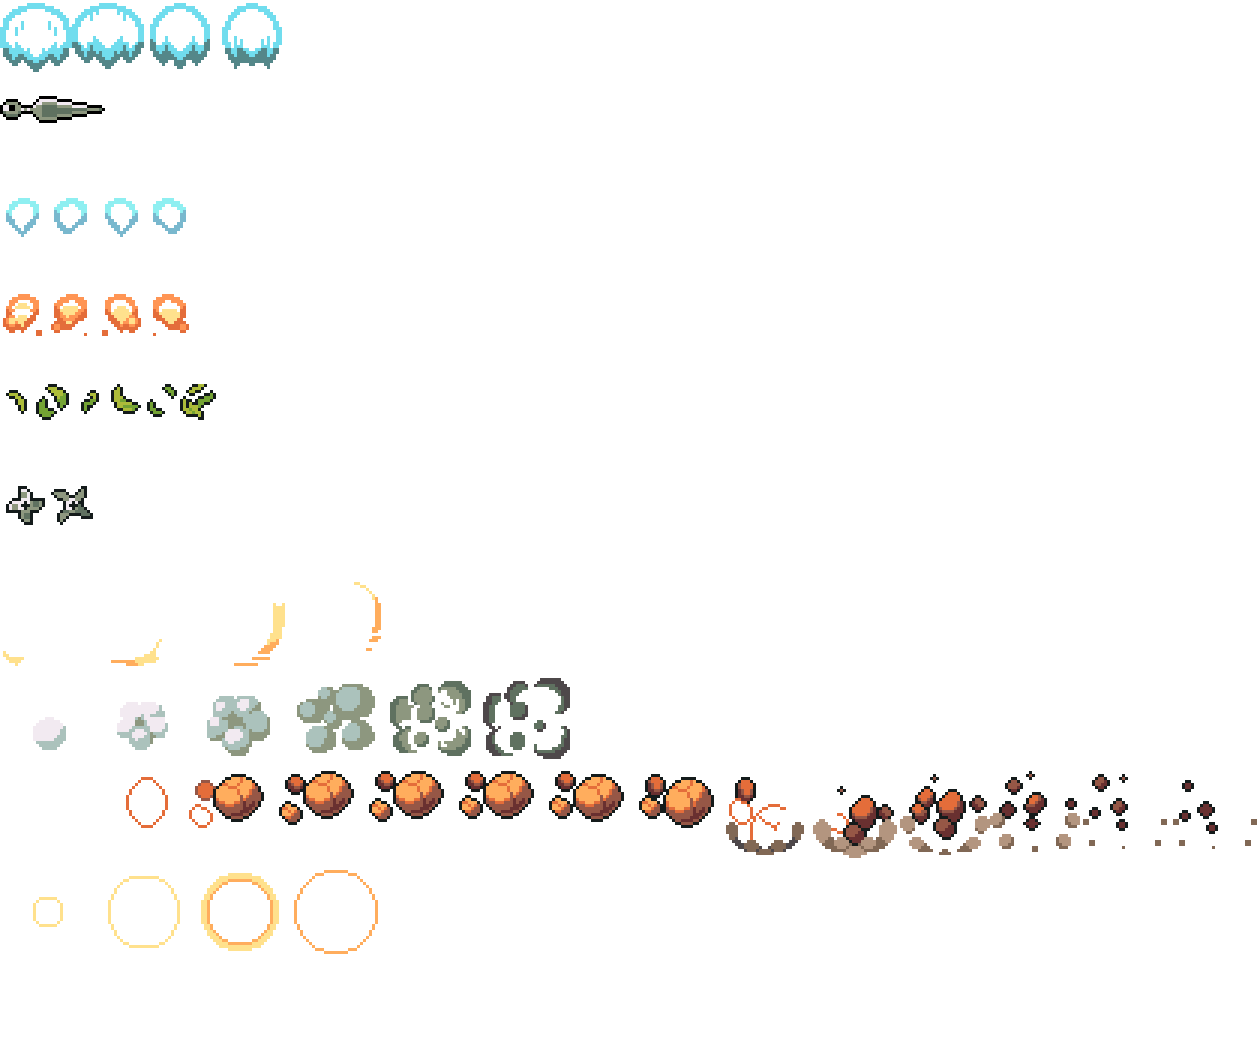
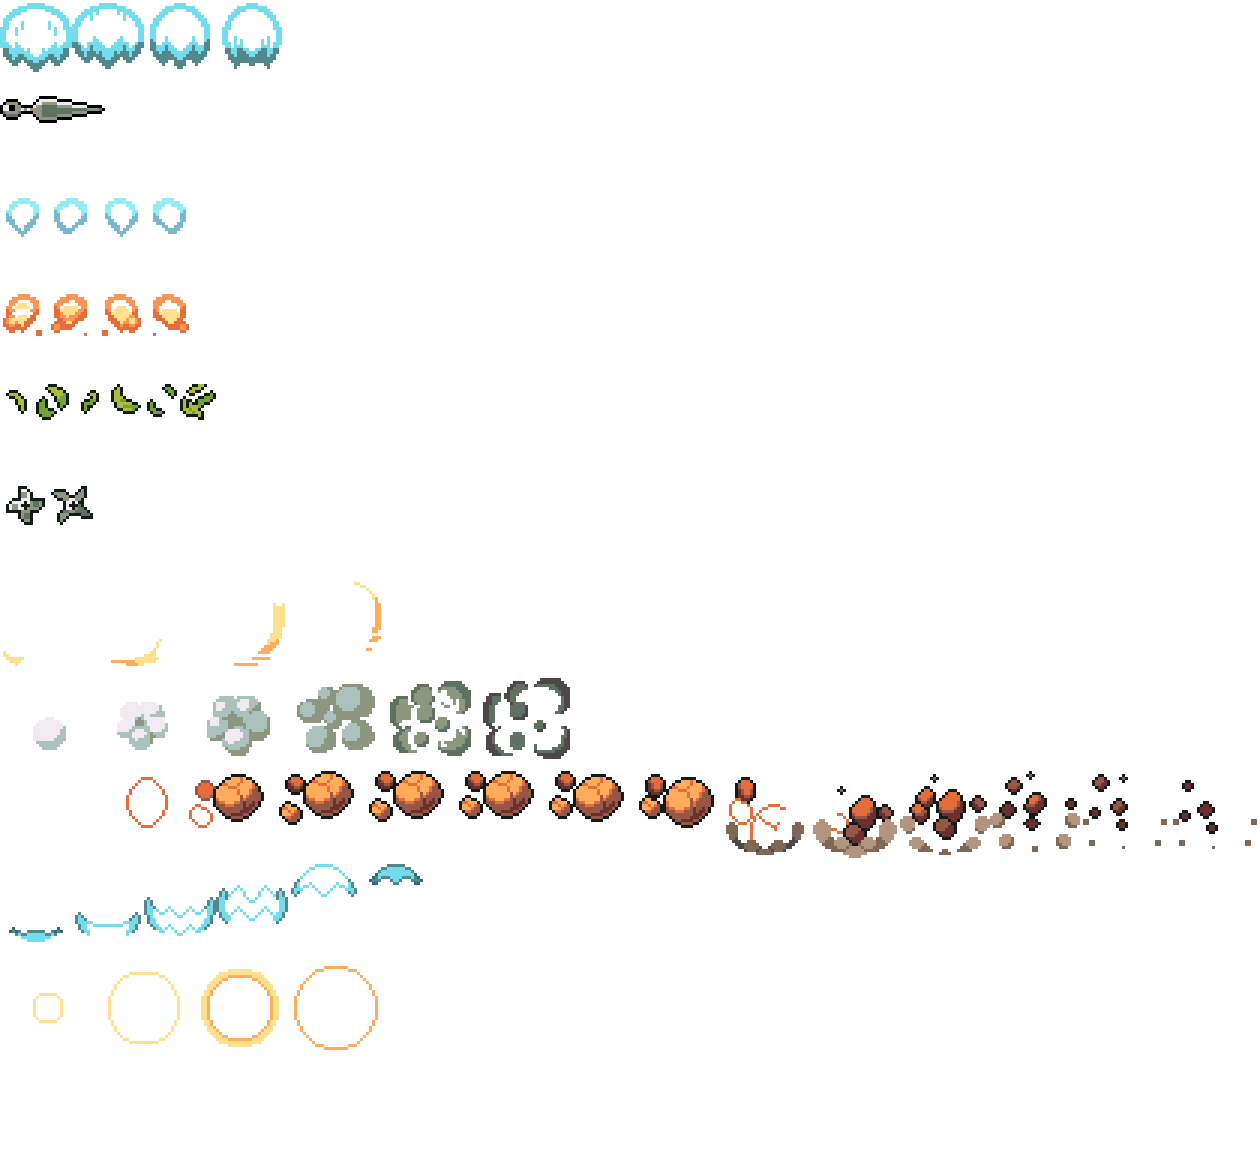
35th

diff --git a/core/src/com/mygdx/game/entity/system/CollisionSystem.java b/core/src/com/mygdx/game/entity/system/CollisionSystem.java
@@ -19,7 +19,9 @@ import com.mygdx.game.items.food.Food;
 import com.mygdx.game.items.food.FoodType;
 import com.mygdx.game.items.weapon.Weapon;
 import com.mygdx.game.items.weapon.WeaponType;
+import com.mygdx.game.map.GameObject;
 import com.mygdx.game.map.GameObjectType;
+import com.mygdx.game.map.Map;
 import com.mygdx.game.map.MapType;
 import com.mygdx.game.screens.ScreenType;
 import com.mygdx.game.view.DirectionType;
@@ -93,14 +95,7 @@ public class CollisionSystem extends IteratingSystem implements CollisionListene
         aniComponent.isDamaged = true;
 
         if (playerCmp.life <= 0) {
-            for (int i=0; i<4; i++) {
-                playerCmp.inventory[i] = null;
-            }
-            playerCmp.weaponList.clear();
-            game.getGameUI().updateBag();
-            game.getGameUI().updateNumTable();
-            game.getGameUI().destroyLifeBar();
-            player.add(((ECSEngine) getEngine()).createComponent(RemoveComponent.class));
+            reset(player, playerCmp);
         }
         game.getGameUI().updateHeart();
     }
@@ -130,6 +125,7 @@ public class CollisionSystem extends IteratingSystem implements CollisionListene
             }
         }
         else {
+            if (bossCmp.invincible) return;
             bossCmp.life -= weaponCmp.attack;
             bossCmp.isHit = true;
             aniCmp.isFinished = false;
@@ -189,14 +185,7 @@ public class CollisionSystem extends IteratingSystem implements CollisionListene
             aniCmp.isDamaged = true;
 
             if (playerCmp.life <= 0) {;
-                for (int i=0; i<4; i++) {
-                    playerCmp.inventory[i] = null;
-                }
-                playerCmp.weaponList.clear();
-                game.getGameUI().updateBag();
-                game.getGameUI().updateNumTable();
-                game.getGameUI().destroyLifeBar();
-                player.add(((ECSEngine) getEngine()).createComponent(RemoveComponent.class));
+                reset(player, playerCmp);
             }
             game.getGameUI().updateHeart();
         }
@@ -235,15 +224,16 @@ public class CollisionSystem extends IteratingSystem implements CollisionListene
                 }
             }
             else {
+                if (bossCmp.invincible) return;
                 bossCmp.life -= damageAreaCmp.damage;
                 bossCmp.isHit = true;
                 aniCmp.isFinished = false;
                 game.getGameUI().updateLifeBar(bossCmp);
                 if (bossCmp.life <= 0) {
                     game.getAudioManager().playAudio(AudioType.KILL);
-                    bossCmp.boss.setDead(true);
+                    game.getMapManager().getCurrentMap().setBossKilled(true);
                     game.getGameUI().destroyLifeBar();
-                    if(bossCmp.type == BossType.GIANTSPIRIT){
+                    if(bossCmp.type == BossType.GIANTBLUESAMURAI){
                         game.setScreen(ScreenType.END);
                     }
                     enemy.add(((ECSEngine) getEngine()).createComponent(RemoveComponent.class));
@@ -268,5 +258,22 @@ public class CollisionSystem extends IteratingSystem implements CollisionListene
         }
     }
 
+    public void reset(Entity player, PlayerComponent playerCmp) {
+        for (int i=0; i<4; i++) {
+            playerCmp.inventory[i] = null;
+        }
+        playerCmp.indWeapon = 0;
+        playerCmp.weaponList.clear();
+        game.getGameUI().updateBag();
+        game.getGameUI().updateNumTable();
+        game.getGameUI().destroyLifeBar();
+        for (Map map: game.getMapManager().getMapCache().values()) {
+            for (GameObject gameObject : map.getGameObjects()) {
+                gameObject.setIsUsed(false);
+            }
+            map.setBossKilled(false);
+        }
+        player.add(((ECSEngine) getEngine()).createComponent(RemoveComponent.class));
+    }
 
 }

diff --git a/core/src/com/mygdx/game/entity/ECSEngine.java b/core/src/com/mygdx/game/entity/ECSEngine.java
@@ -303,6 +303,17 @@ public class ECSEngine extends PooledEngine{
 		box2DComponent.body.createFixture(CoreGame.FIXTURE_DEF);
 		pShape.dispose();
 		bossEnity.add(box2DComponent);
+
+		// effect component
+		final EffectComponent effectComponent = this.createComponent(EffectComponent.class);
+		effectComponent.type = EffectType.NONE;
+		effectComponent.position = new Vector2(box2DComponent.body.getPosition().x, box2DComponent.body.getPosition().y);
+		effectComponent.direction = DOWN;
+		effectComponent.path = EffectType.SHIELD.getAtlasPath();
+		effectComponent.width = boss.getWidth() * UNIT_SCALE;
+		effectComponent.height = boss.getWidth() * UNIT_SCALE;
+		effectComponent.owner = CoreGame.BIT_BOSS;
+		bossEnity.add(effectComponent);
 		this.addEntity(bossEnity);
 	}
 
@@ -393,12 +404,29 @@ public class ECSEngine extends PooledEngine{
 		final float angleRad = -weapon.getDirection().getCode() * MathUtils.degreesToRadians * 90;
 		final Box2DComponent box2DComponent = this.createComponent(Box2DComponent.class);
 		CoreGame.BODY_DEF.type = BodyDef.BodyType.DynamicBody;
-		CoreGame.BODY_DEF.position.set(weapon.getPosition().x + weapon.posDirection[weapon.direction.getCode()].x , weapon.getPosition().y + weapon.posDirection[weapon.direction.getCode()].y);
+		float height = (weapon.height - 12*UNIT_SCALE)/2;
+		switch (weapon.direction) {
+			case LEFT:
+				CoreGame.BODY_DEF.position.set(weapon.getPosition().x + weapon.posDirection[weapon.direction.getCode()].x - height, weapon.getPosition().y + weapon.posDirection[weapon.direction.getCode()].y);
+				break;
+			case RIGHT:
+				CoreGame.BODY_DEF.position.set(weapon.getPosition().x + weapon.posDirection[weapon.direction.getCode()].x + height, weapon.getPosition().y + weapon.posDirection[weapon.direction.getCode()].y);
+				break;
+			case UP:
+				CoreGame.BODY_DEF.position.set(weapon.getPosition().x + weapon.posDirection[weapon.direction.getCode()].x, weapon.getPosition().y + weapon.posDirection[weapon.direction.getCode()].y + height);
+				break;
+			case DOWN:
+				CoreGame.BODY_DEF.position.set(weapon.getPosition().x + weapon.posDirection[weapon.direction.getCode()].x + height, weapon.getPosition().y + weapon.posDirection[weapon.direction.getCode()].y - height);
+				break;
+
+		}
+
 		box2DComponent.body = world.createBody(CoreGame.BODY_DEF);
 		box2DComponent.body.setUserData(weaponEntity);
 		box2DComponent.width = weapon.getWidth();
 		box2DComponent.height = weapon.getHeight();
-		Vector2 position = new Vector2(weapon.getPosition().x + weapon.effDirection[weapon.direction.getCode()].x , weapon.getPosition().y + weapon.effDirection[weapon.direction.getCode()].y);
+
+		Vector2 position = new Vector2(weapon.getPosition().x + weapon.effDirection[weapon.direction.getCode()].x, weapon.getPosition().y + weapon.effDirection[weapon.direction.getCode()].y);
 		weapon.effect.setPosition(position);
 
 		// save position before rotation - Tiled is rotated around the bottom left corner instead of the center of a Tile

diff --git a/core/src/com/mygdx/game/entity/system/EnemyAttackSystem.java b/core/src/com/mygdx/game/entity/system/EnemyAttackSystem.java
@@ -10,9 +10,11 @@ import com.mygdx.game.CoreGame;
 import com.mygdx.game.character.enemy.EnemySkillType;
 import com.mygdx.game.character.enemy.system.AttackSystem;
 import com.mygdx.game.character.enemy.system.ProjectileSystem;
+import com.mygdx.game.character.enemy.system.ProtectSystem;
 import com.mygdx.game.effect.DamageArea;
 import com.mygdx.game.effect.EffectType;
 import com.mygdx.game.entity.ECSEngine;
+import com.mygdx.game.entity.component.BossComponent;
 import com.mygdx.game.entity.component.Box2DComponent;
 import com.mygdx.game.entity.component.EnemyComponent;
 import com.mygdx.game.entity.component.PlayerComponent;
@@ -44,6 +46,10 @@ public class EnemyAttackSystem extends IteratingSystem {
                 case ATTACK:
                     AttackSystem.attackSystem(game, enemyCom, b2dComponent);
                     break;
+                case PROTECT:
+                    Entity bossEntity = getBossEntity();
+                    ProtectSystem.protect(game, enemyCom, bossEntity, v);
+                    break;
             }
         }
 
@@ -53,6 +59,14 @@ public class EnemyAttackSystem extends IteratingSystem {
 
     public Entity getPlayerEntity() {
         ImmutableArray<Entity> entities = game.getEcsEngine().getEntitiesFor(Family.all(PlayerComponent.class).get());
+        if (entities.size() > 0) {
+            return entities.first();
+        }
+        return null;
+    }
+
+    public Entity getBossEntity() {
+        ImmutableArray<Entity> entities = game.getEcsEngine().getEntitiesFor(Family.all(BossComponent.class).get());
         if (entities.size() > 0) {
             return entities.first();
         }

diff --git a/core/src/com/mygdx/game/ui/GameUI.java b/core/src/com/mygdx/game/ui/GameUI.java
@@ -143,8 +143,8 @@ public class GameUI extends Table {
 		Image wpBG = new Image(new Texture(Gdx.files.internal("Backgrounds/wpBG2.png")));
 		stacks[0] = new Stack();
 		stacks[0].add(wpBG);
-		TextureAtlas atlas = game.getAssetManager().get(playerCmp.weaponList.get(playerCmp.indWeapon).atlasPath, TextureAtlas.class);
-		TextureAtlas.AtlasRegion region = atlas.findRegion(playerCmp.weaponList.get(playerCmp.indWeapon).key);
+		TextureAtlas atlas = game.getAssetManager().get(playerCmp.weapon.atlasPath, TextureAtlas.class);
+		TextureAtlas.AtlasRegion region = atlas.findRegion(playerCmp.weapon.key);
 
 		Drawable drawable = new TextureRegionDrawable(region);
 		bagItems[0] = new ImageButton(drawable);
@@ -170,8 +170,8 @@ public class GameUI extends Table {
 
 		if (playerCmp.weaponList.size > 0) {
 			stacks[0].removeActor(bagItems[0]);
-			TextureAtlas atlasWP = game.getAssetManager().get(playerCmp.weaponList.get(playerCmp.indWeapon).atlasPath, TextureAtlas.class);
-			TextureAtlas.AtlasRegion regionWP = atlasWP.findRegion(playerCmp.weaponList.get(playerCmp.indWeapon).key);
+			TextureAtlas atlasWP = game.getAssetManager().get(playerCmp.weapon.atlasPath, TextureAtlas.class);
+			TextureAtlas.AtlasRegion regionWP = atlasWP.findRegion(playerCmp.weapon.key);
 			Drawable drawableWP = new TextureRegionDrawable(regionWP);
 			bagItems[0] = new ImageButton(drawableWP);
 			stacks[0].add(bagItems[0]);

diff --git a/core/src/com/mygdx/game/character/enemy/EnemyType.java b/core/src/com/mygdx/game/character/enemy/EnemyType.java
@@ -11,7 +11,7 @@ public enum EnemyType {
     REDNINJA2("Actor/Characters/RedNinja2/redninja2.atlas", "REDNINJA2", EnemySkillType.PROJECTILE, EnemyDetailSkillType.SHURIKEN, 28, 2, 2, 6),
     REDSAMURAI("Actor/Characters/RedSamurai/redsamurai.atlas", "REDSAMURAI", EnemySkillType.ATTACK, EnemyDetailSkillType.ATTACK_SLASH, 32, 2, 1.5f, 3),
     SAMURAI("Actor/Characters/Samurai/samurai.atlas", "SAMURAI",EnemySkillType.ATTACK, EnemyDetailSkillType.ATTACK_SLASH,32, 2, 1.5f, 3),
-    ORANGESORCERER("Actor/Characters/OrangeSorcerer/orangeSorcerer.atlas", "ORANGESORCERER", EnemySkillType.SPAWN, EnemyDetailSkillType.SWAP_ROCK, 20, 4, 1, 6),
+    ORANGESORCERER("Actor/Characters/OrangeSorcerer/orangeSorcerer.atlas", "ORANGESORCERER", EnemySkillType.PROTECT, EnemyDetailSkillType.SWAP_ROCK, 20, 4, 1, 6),
     SKELETON("Actor/Characters/Skeleton/skeleton.atlas", "SKELETON", EnemySkillType.NULL,null, 20, 4, 1, 6),
     CYCLOPE("Actor/Monsters/Cyclope/Cyclope.atlas", "CYCLOPE", EnemySkillType.PROJECTILE, EnemyDetailSkillType.FIRE_BALL, 20, 2, 1, 6),
     SKULL("Actor/Monsters/Skull/skull.atlas", "SKULL", EnemySkillType.PROJECTILE, EnemyDetailSkillType.FIRE_BALL, 20, 2, 1, 6),

diff --git a/core/src/com/mygdx/game/character/enemy/system/ProtectSystem.java b/core/src/com/mygdx/game/character/enemy/system/ProtectSystem.java
@@ -1,0 +1,25 @@
+package com.mygdx.game.character.enemy.system;
+
+import com.badlogic.ashley.core.Entity;
+import com.badlogic.gdx.math.Vector2;
+import com.mygdx.game.CoreGame;
+import com.mygdx.game.effect.EffectType;
+import com.mygdx.game.entity.ECSEngine;
+import com.mygdx.game.entity.component.BossComponent;
+import com.mygdx.game.entity.component.Box2DComponent;
+import com.mygdx.game.entity.component.EffectComponent;
+import com.mygdx.game.entity.component.EnemyComponent;
+
+public class ProtectSystem {
+    public static void protect(CoreGame game, EnemyComponent enemyCom, Entity boss , float deltaTime) {
+        if (boss == null) return;
+        BossComponent bossCmp = ECSEngine.bossCmpMapper.get(boss);
+        EffectComponent effectCmp = ECSEngine.effectCmpMapper.get(boss);
+        enemyCom.reload += deltaTime;
+        if (enemyCom.reload > 5) {
+            enemyCom.reload = 0;
+            bossCmp.invincible = true;
+            effectCmp.type = EffectType.SHIELD;
+        }
+    }
+}

diff --git a/core/src/com/mygdx/game/character/boss/system/GiantBlueSamurai.java b/core/src/com/mygdx/game/character/boss/system/GiantBlueSamurai.java
@@ -192,9 +192,10 @@ public class GiantBlueSamurai {
         BossComponent bossCmp = ECSEngine.bossCmpMapper.get(entity);
         Box2DComponent b2dCmp = ECSEngine.box2dCmpMapper.get(entity);
         int dir[][] = {{1, 1}, {1, -1}, {-1, -1}, {-1, 1}};
-        for (int sub[] : dir) {
-            Vector2 position = new Vector2(b2dCmp.body.getPosition().x + sub[0] * b2dCmp.width , b2dCmp.body.getPosition().y + sub[1] * b2dCmp.height);
-            Enemy enemy = new Enemy(EnemyType.REDSAMURAI, position, 16, 16);
+        EnemyType enemyType[] = {EnemyType.REDSAMURAI, EnemyType.SAMURAI, EnemyType.REDNINJA, EnemyType.ORANGESORCERER};
+        for (int i=0; i<4; i++) {
+            Vector2 position = new Vector2(b2dCmp.body.getPosition().x + dir[i][0] * b2dCmp.width , b2dCmp.body.getPosition().y + dir[i][1] * b2dCmp.height);
+            Enemy enemy = new Enemy(enemyType[i], position, 16, 16);
             thisGame.getEcsEngine().createEnemy(enemy);
         }
         bossCmp.isSkill2 = false;

diff --git a/core/src/com/mygdx/game/entity/system/BossAttackSystem.java b/core/src/com/mygdx/game/entity/system/BossAttackSystem.java
@@ -29,6 +29,7 @@ public class BossAttackSystem extends IteratingSystem {
     @Override
     protected void processEntity(Entity entity, float v) {
         BossComponent bossCmp = ECSEngine.bossCmpMapper.get(entity);
+        EffectComponent effectCmp = ECSEngine.effectCmpMapper.get(entity);
         switch (bossCmp.type) {
             case GIANTBLUESAMURAI:
                 GiantBlueSamurai.GBS_attack(game, entity, v);
@@ -46,7 +47,14 @@ public class BossAttackSystem extends IteratingSystem {
             }
             bossCmp.resetState();
         }
-    // them am thanh khi boss dung ki nang
+        if (bossCmp.invincible) {
+            bossCmp.duration -= v;
+            if (bossCmp.duration <= 0) {
+                bossCmp.duration = 2;
+                bossCmp.invincible = false;
+                effectCmp.type = EffectType.NONE;
+            }
+        }
     }
 
     public void destroyArea () {

diff --git a/core/src/com/mygdx/game/map/MapManager.java b/core/src/com/mygdx/game/map/MapManager.java
@@ -18,7 +18,6 @@ import com.mygdx.game.effect.Effect;
 import com.mygdx.game.entity.ECSEngine;
 
 import com.badlogic.ashley.core.Entity;
-import com.mygdx.game.entity.component.PlayerComponent;
 import com.mygdx.game.items.weapon.Weapon;
 import com.mygdx.game.items.weapon.WeaponType;
 import com.mygdx.game.view.DirectionType;
@@ -145,6 +144,7 @@ public class MapManager {
 		for (final Boss boss: currentMap.getBosses()) {
 			if (boss.isDead()) continue;
 			ecsEngine.createBoss(boss);
+			if (game.getGameUI() == null) continue;
 			game.getGameUI().createLifeBar(boss);
 		}
 	}
@@ -200,5 +200,9 @@ public class MapManager {
 
 	public void setNextMapType(MapType nextMapType) {
 		this.nextMapType = nextMapType;
+	}
+
+	public EnumMap<MapType, Map> getMapCache() {
+		return mapCache;
 	}
 }

diff --git a/core/src/com/mygdx/game/entity/component/EnemyComponent.java b/core/src/com/mygdx/game/entity/component/EnemyComponent.java
@@ -12,11 +12,6 @@ public class EnemyComponent extends EntityComponent {
     public EnemyType type;
     //
     public Vector2 startPosition = new Vector2();
-    //
-    public Vector2 wanderingDirection = new Vector2();
-    public float timeSinceLastDirectionChange = 0;
-    public float directionChangeInterval = 5; // giây
-    public float wanderDir;
     public boolean stop;
     public boolean focus;
 
@@ -25,9 +20,7 @@ public class EnemyComponent extends EntityComponent {
     public float time;
     public DirectionType direction;
     public float reload = 0.5f;
-
     //Bullet
-    public float shootDelay = 1f;
     public float timeSinceLastShot = 0f;
     public float timeDelayForBullet = 0f;
     @Override

diff --git a/core/src/com/mygdx/game/effect/EffectType.java b/core/src/com/mygdx/game/effect/EffectType.java
@@ -17,6 +17,7 @@ public enum EffectType {
     BLAST("FX/Effect.atlas", "Blast", 0.1f, 16, 16, 0, Animation.PlayMode.NORMAL),
     CUTLEAVES( "FX/Effect.atlas", "Grass", 0.1f, 6, 6, 0, Animation.PlayMode.NORMAL),
     LOOP_AURA("FX/Effect.atlas", "WhiteAura", 0.1f, 16, 16, 0, Animation.PlayMode.LOOP),
+    SHIELD("FX/Effect.atlas", "Shield", 0.1f, 12, 13, 0, Animation.PlayMode.LOOP)
     ;
 
     private final String atlasPath;

diff --git a/core/src/com/mygdx/game/entity/component/BossComponent.java b/core/src/com/mygdx/game/entity/component/BossComponent.java
@@ -18,7 +18,8 @@ public class BossComponent extends EntityComponent {
     public boolean isHit;
     public float timeRest;
     public DirectionType direction;
-    public boolean isRest;
+    public float duration = 2;
+    public boolean invincible;
 
     public Boss boss;
 
